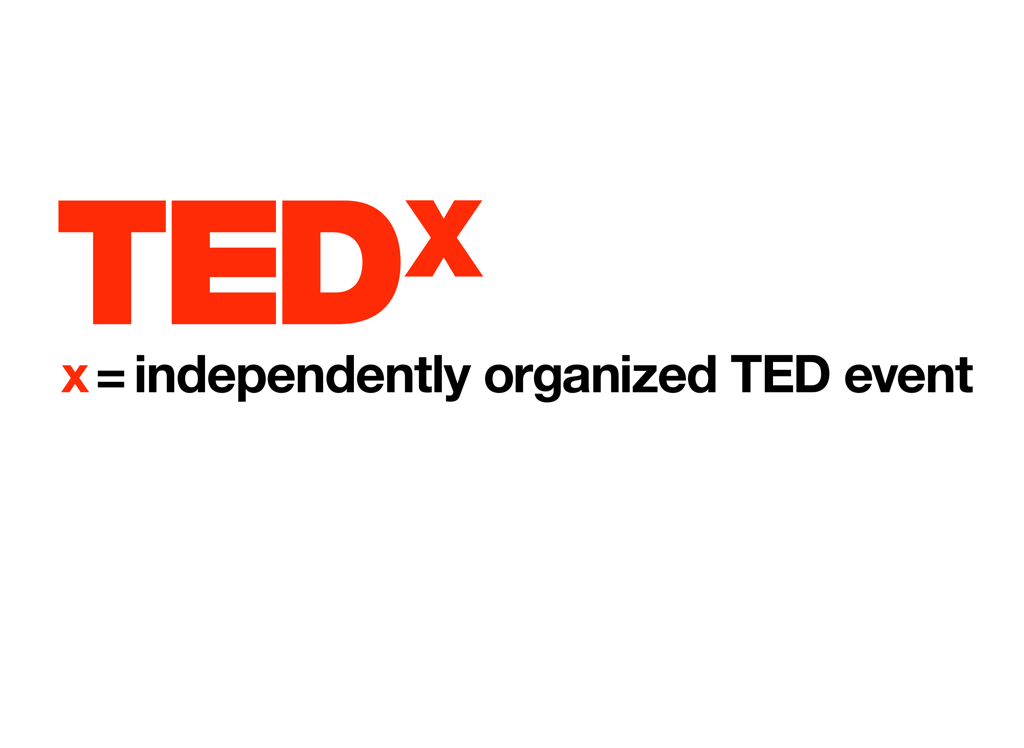
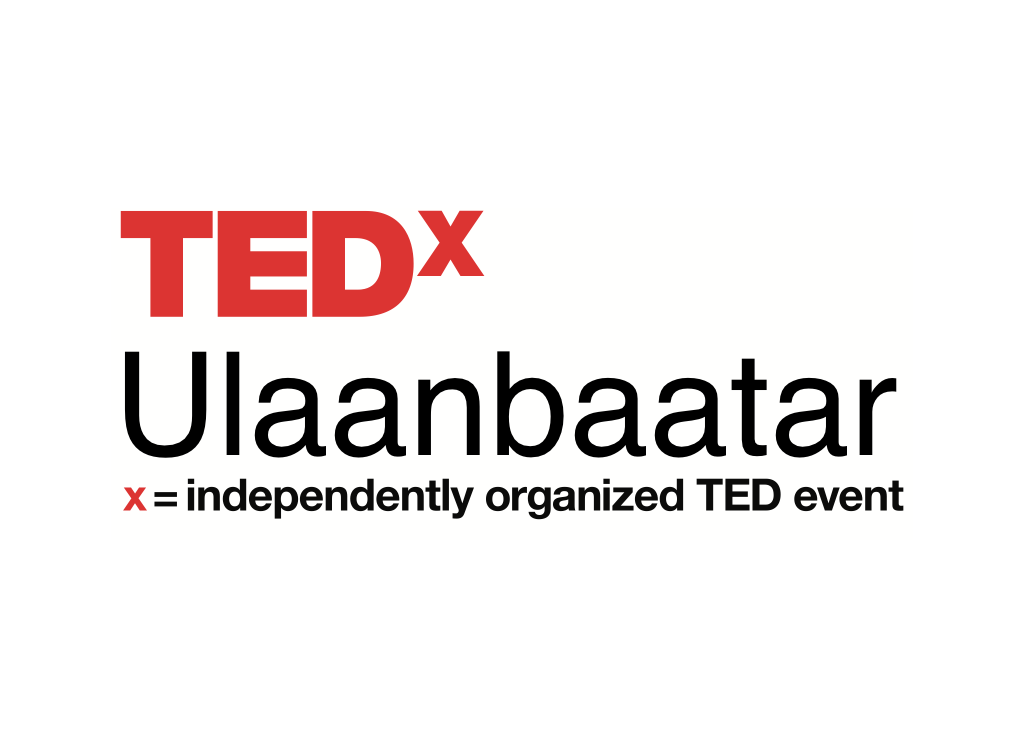
Getting rid of Dalai Lama and adding Neil D'Souza. Also getting rid of TEDx and TED images.

Changed region(s): [[0.0312, 0.246, 0.9688, 0.7072]]

diff --git a/Resources/views/aboutView.js b/Resources/views/aboutView.js
@@ -11,15 +11,15 @@ var scrollView = Titanium.UI.createScrollView({
 
 // Create a imageView for the image
 var width = (Ti.Platform.name == "android") ? 320 : Ti.UI.currentWindow.width;
-var imageView = Titanium.UI.createImageView({image:Ti.UI.currentWindow.aboutImage,
-										 width:width,
-										 height:53,
-										 top:10});
-scrollView.add(imageView);
+// var imageView = Titanium.UI.createImageView({image:Ti.UI.currentWindow.aboutImage,
+										 // width:width,
+										 // height:53,
+										 // top:10});
+// scrollView.add(imageView);
 
 // Add the text
 var label = Titanium.UI.createLabel({text:Ti.UI.currentWindow.aboutText,
-								    top:(imageView.height + 20),
+								    top:10,
 								    height:"auto",
 								    width:(width-20)});
 scrollView.add(label);

diff --git a/Resources/views/guide.js b/Resources/views/guide.js
@@ -88,13 +88,13 @@ tableview.addEventListener('click', function(e)
 	} else {
 		if (e.rowData.action == ACTION_ABOUT) {
 			if (e.rowData.detail == "aboutted") {
-				aboutImage = "../images/ted_logo.png";
+				// aboutImage = "../images/ted_logo.png";
 				aboutText = _("guide_about_ted_text");
 			} else if (e.rowData.detail == "abouttedx") {
-				aboutImage = "../images/tedx_logo.png";
+				// aboutImage = "../images/tedx_logo.png";
 				aboutText = _("guide_about_tedx_text");
 			} else if (e.rowData.detail == "abouttedxub") {
-				aboutImage = "../images/tedxulaanbaatar.png";
+				// aboutImage = "../images/tedxulaanbaatar.png";
 				aboutText = _("guide_about_tedxub_text");
 			}
 			
